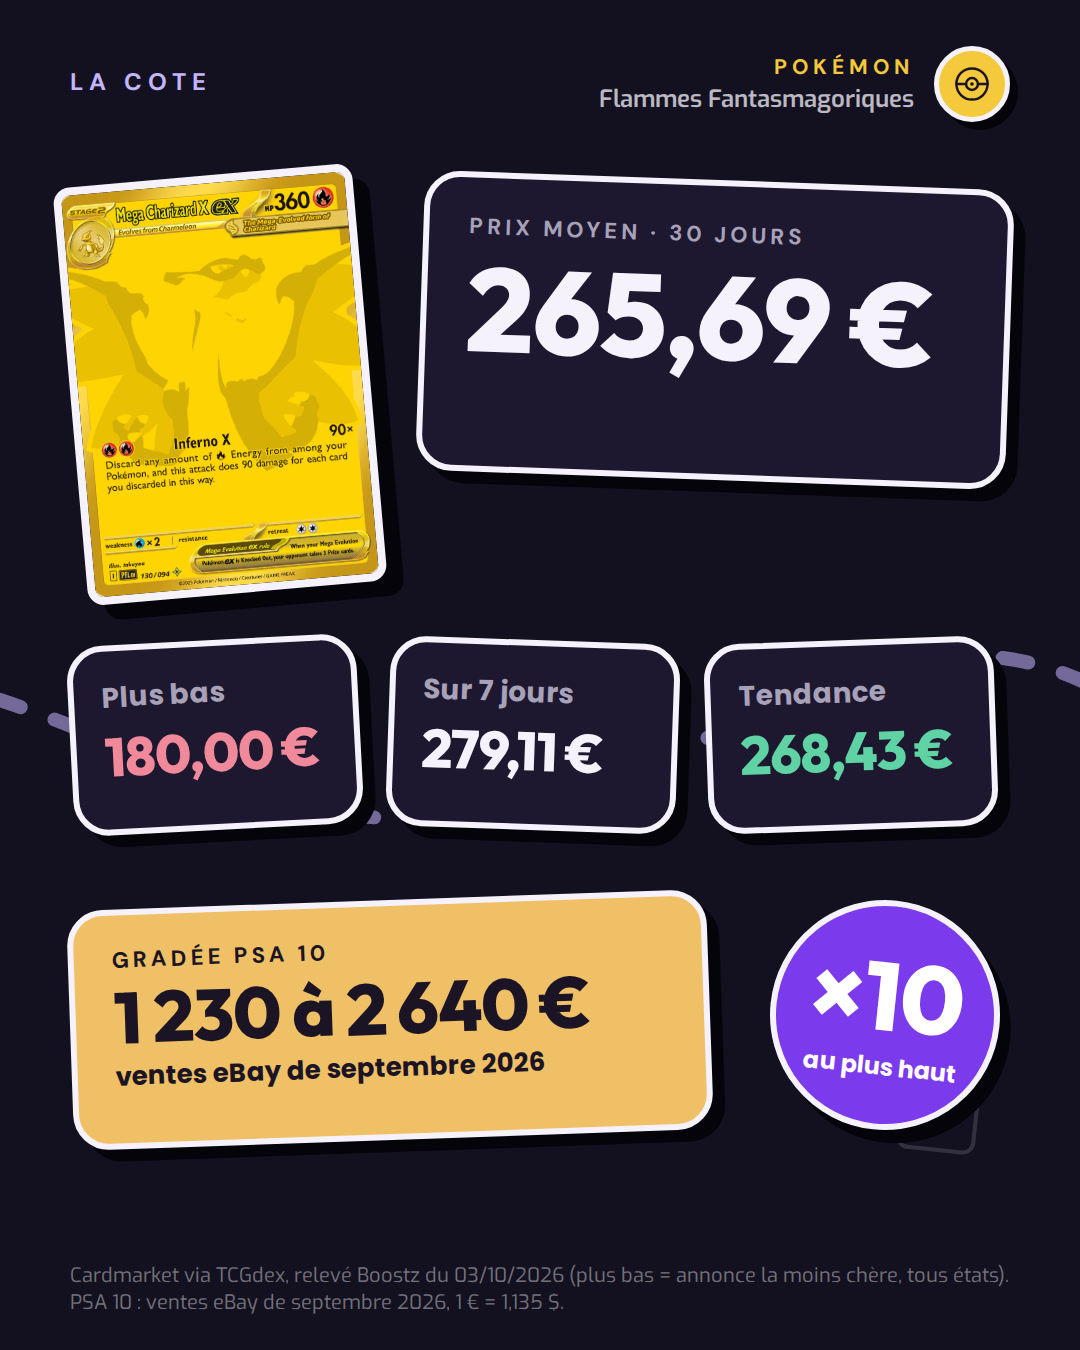
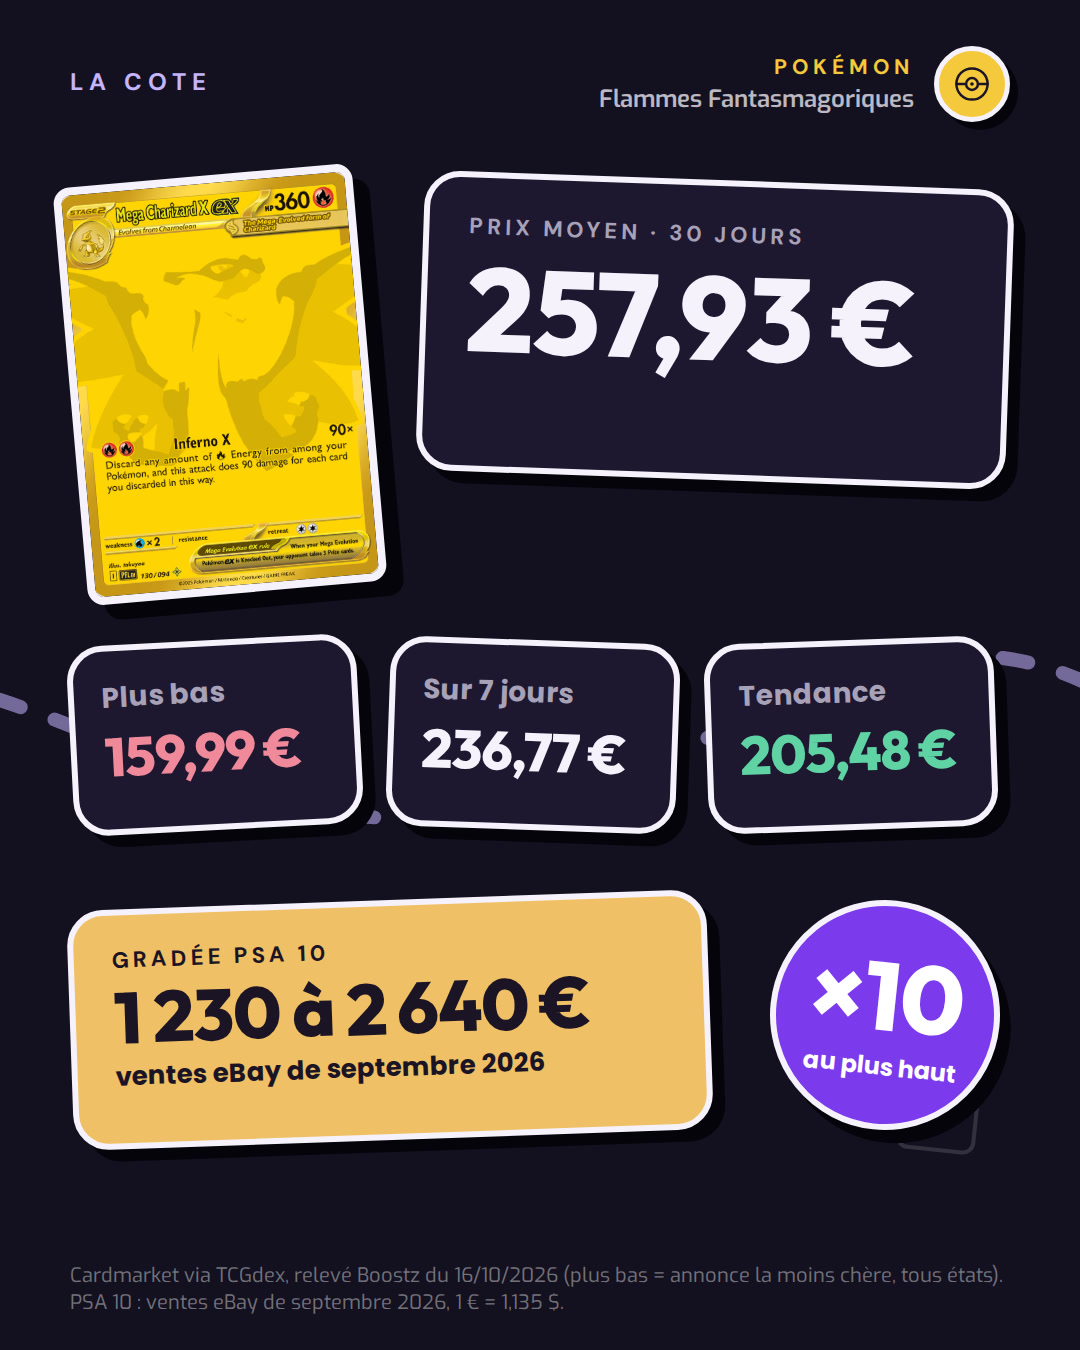
Update the Mega Charizard X analysis with the 16 October record
The post goes out on 26 October with Cardmarket figures from 3 October.
The 16 October record gives a 30-day average of 257.93 EUR (was 265.69),
7-day 236.77, trend 205.48, cheapest listing 159.99; opening it now costs
34 times its price instead of 33. The PSA 10 range stays the September
eBay sales, dated as such on the slide.

Claude-Session: https://claude.ai/code/session_01KYjmNhJZrtvo4jRtggkgV3

diff --git a/gabarits/analyse-de-carte.html b/gabarits/analyse-de-carte.html
@@ -37,10 +37,10 @@ const head = (kicker) => `<div class="abs lab" style="left:70px;top:66px;font-si
   <div class="abs" style="right:70px;top:46px;display:flex;align-items:center;gap:20px;z-index:5"><div style="text-align:right"><div class="lab" style="font-size:21px;letter-spacing:5px;color:#F5C93B">POKÉMON</div><div style="font-weight:600;font-size:24px;color:rgba(245,242,251,.75);margin-top:2px">Flammes Fantasmagoriques</div></div>
   <div style="width:76px;height:76px;border-radius:50%;background:#F5C93B;border:5px solid #F5F2FB;box-shadow:8px 8px 0 ${SHADOW};display:flex;align-items:center;justify-content:center">${emblemSvg('pokemon', DARK, 44)}</div></div>`;
 const euro = (v) => v.toFixed(2).replace('.', ',').replace(/\B(?=(\d{3})+(?!\d))/g, ' ') + ' €';
-// Cardmarket via TCGdex, as recorded by the price workflow on 03/10/2026 (donnees/cotes/pokemon/2026-10-03.json, me02-130).
-const CM = { avg7: 279.11, avg30: 265.69, trend: 268.43, low: 180 };
-const SRC_COTE = 'Cardmarket via TCGdex, relevé Boostz du 03/10/2026 (plus bas = annonce la moins chère, tous états). PSA 10 : ventes eBay de septembre 2026, 1 € = 1,135 $.';
-const SRC_TAUX = 'Taux : TCGplayer, 1 Méga Hyper Rare pour 1 260 boosters. Display de 36 boosters ≈ 250 €, prix publics FR. Cardmarket via TCGdex, relevé Boostz du 03/10/2026.';
+// Cardmarket via TCGdex, as recorded by the price workflow on 16/10/2026 (donnees/cotes/pokemon/2026-10-16.json, me02-130).
+const CM = { avg7: 236.77, avg30: 257.93, trend: 205.48, low: 159.99 };
+const SRC_COTE = 'Cardmarket via TCGdex, relevé Boostz du 16/10/2026 (plus bas = annonce la moins chère, tous états). PSA 10 : ventes eBay de septembre 2026, 1 € = 1,135 $.';
+const SRC_TAUX = 'Taux : TCGplayer, 1 Méga Hyper Rare pour 1 260 boosters. Display de 36 boosters ≈ 250 €, prix publics FR. Cardmarket via TCGdex, relevé Boostz du 16/10/2026.';
 const TIMES = Math.round(8750 / CM.avg30);
 const SRC_VERDICT = `${TIMES} × : ≈ 8 750 € de boosters ÷ ${euro(CM.avg30)}. 1 chance sur 3 : 37 % de ne pas l’avoir après 1 260 boosters.`;
 const POSTS = [];
